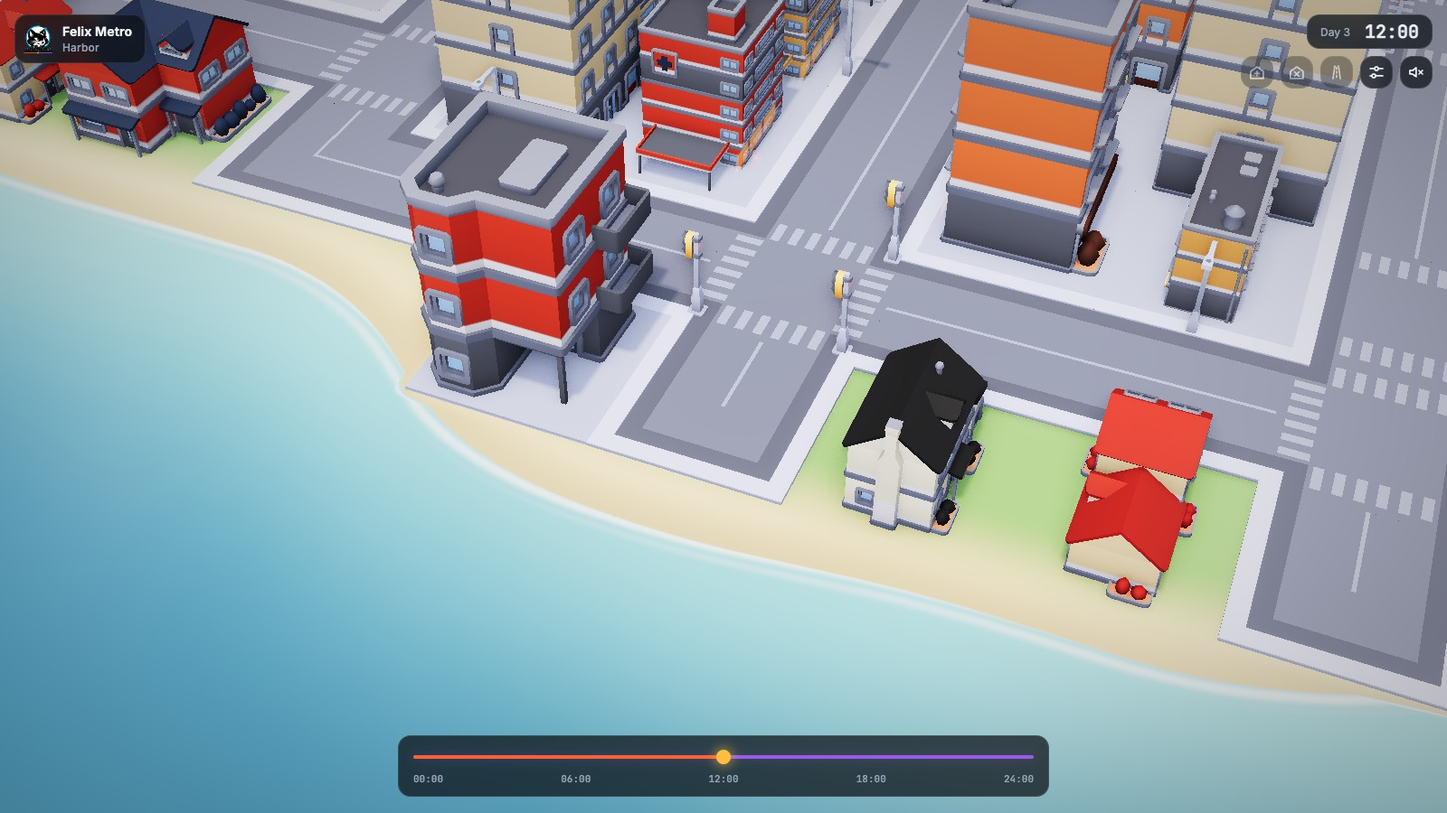
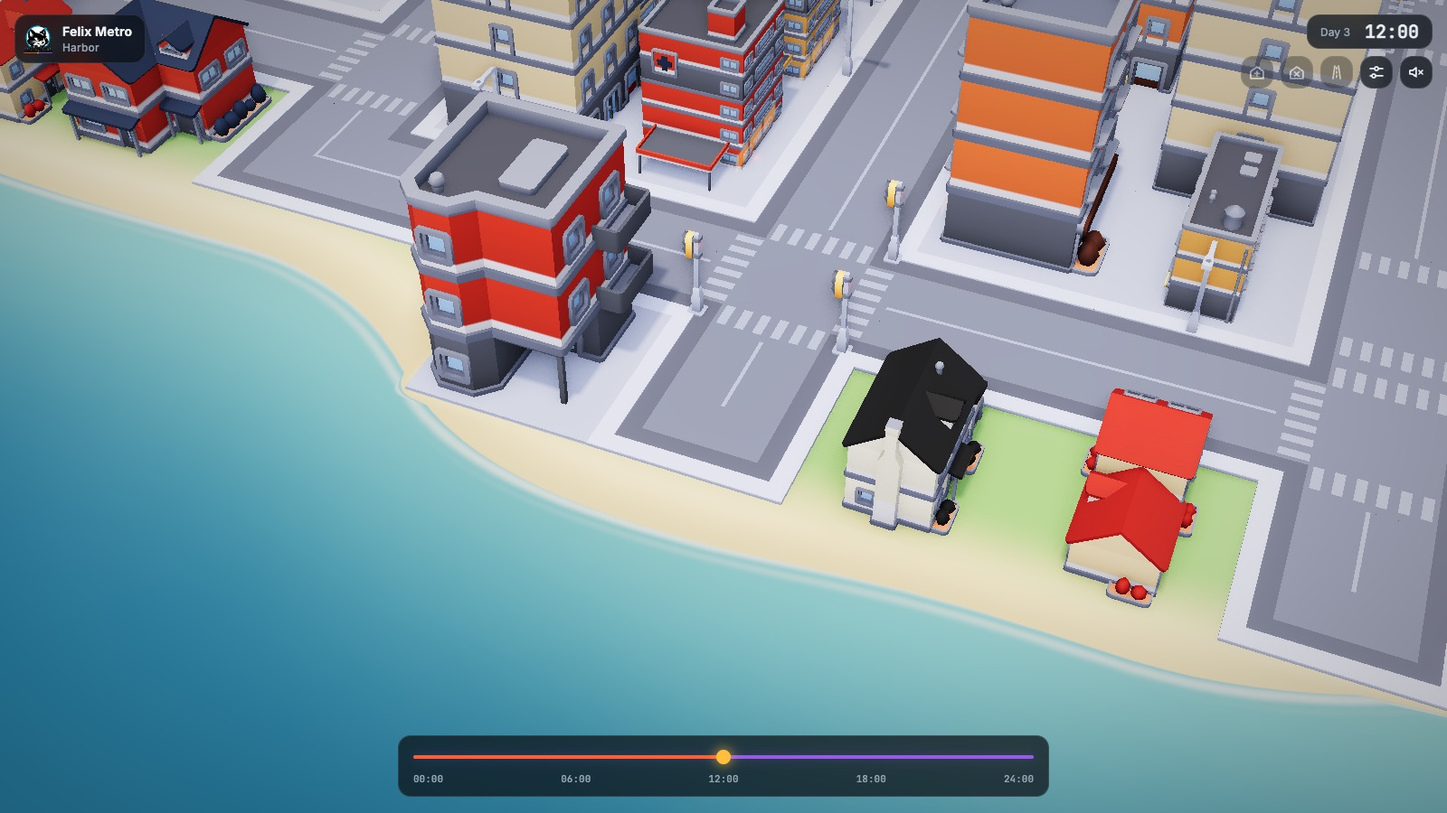
Water: give the sea the environment map at a tenth of its strength, and say plainly why it never covers land

diff --git a/web/src/coast.ts b/web/src/coast.ts
@@ -1,9 +1,9 @@
 // The coast: where the drawn water meets the land, and the one test every piece of scatter asks.
 //
 // The sim knows water as whole tiles, and that stays the rule for lots and roads. The page draws a smoother edge by
-// blurring the tile mask and cutting it at a level that wanders with a noise seeded from the city's seed. The cut is
-// above the blur's value at a tile edge, so the drawn water only ever pulls back into water tiles and never covers a
-// land one. What it uncovers is the beach. `dry` is the same field read the other way: a tree goes where it is
+// blurring the tile mask and cutting it at a level that wanders with a noise seeded from the city's seed. Land texels
+// are forced dry and the mesh only covers water tiles, so the drawn water never reaches a land tile. What it
+// uncovers is the beach. `dry` is the same field read the other way: a tree goes where it is
 // clear of the beach, on land, and nowhere else.
 import * as THREE from 'three';
 import { roll, seedNumber } from './ambient';
@@ -11,7 +11,7 @@ import type { City } from './layout';
 
 /** Tiles of map drawn past each edge, so the coast reads right out to where the camera can see. */
 export const COAST_PADDING = 10;
-/** The blurred mask is 0.5 at a tile edge. The water is drawn where it passes this, which pulls it back into the tile. */
+/** The blurred mask is 0.5 along a straight tile edge. Water is drawn where it passes this, which pulls it back into the tile. */
 const LEVEL = 0.72;
 /** A channel or inlet a tile or two wide would blur away at that level, so the level drops by up to this much there. */
 const THIN = 0.25;
@@ -19,8 +19,9 @@ const THIN = 0.25;
 const WANDER = 0.12;
 /** Land clears the shore where the blurred mask is below this: about half a tile from the water's tile edge. */
 const DRY_BELOW = 0.14;
-/** The field the shaders read is 0.5 at the drawn edge and runs 1 per `1 / FIELD_SLOPE` of the mask. */
+/** The shaders read a field that is 0.5 at the drawn edge; this is how fast it changes with the blurred mask. */
 const FIELD_SLOPE = 2.5;
+/** Land texels get this field value, which is dry. It is what keeps the water off land tiles. */
 const FIELD_LAND_CAP = 0;
 
 export interface Coast {
@@ -105,7 +106,7 @@ export function buildCoast(city: City): Coast {
   const tiles = city.tiles;
   const half = (tiles - 1) / 2;
   const across = tiles + 2 * COAST_PADDING;
-  // A 16 district city would be too many texels at full detail.
+  // Fewer texels per tile once the map is very large, to keep the texture small.
   const per = Math.max(4, Math.min(8, Math.floor(1536 / across)));
   const size = across * per;
   const origin = -half - 0.5 - COAST_PADDING;

diff --git a/web/src/coast.test.ts b/web/src/coast.test.ts
@@ -74,6 +74,22 @@ describe('the coast', () => {
     }
   });
 
+  it('leaves every land texel dry in the texture the shaders read', () => {
+    for (const seed of SEEDS) {
+      const c = city(seed);
+      const coast = buildCoast(c);
+      const wet = new Set(c.water.map(([x, z]) => z * c.tiles + x));
+      const per = coast.size / coast.extent;
+      for (let j = 0; j < coast.size; j++) {
+        for (let i = 0; i < coast.size; i++) {
+          const [x, z] = [coast.origin + (i + 0.5) / per, coast.origin + (j + 0.5) / per];
+          if (!simWater(c, wet, x, z))
+            expect(coast.data[(j * coast.size + i) * 4]!, `${seed} ${x}, ${z}`).toBeLessThan(128);
+        }
+      }
+    }
+  });
+
   it('is not squared off: the edge pulls back into the water by a different amount along the coast', () => {
     const c = city('harbor');
     const coast = buildCoast(c);

diff --git a/web/src/water.ts b/web/src/water.ts
@@ -87,7 +87,8 @@ export function createWater(city: City, coast: Coast, reach: number): Water {
     uDeep: { value: new THREE.Color(PALETTE.deep) },
     uFoam: { value: new THREE.Color(PALETTE.foam) },
   };
-  // Mostly diffuse: a rough, non-metal surface with little of the environment, so it reads as water and not a mirror.
+  // Mostly diffuse: a rough, non-metal surface with little of the environment (scene.ts gives it the map, so the
+  // intensity below applies), so it reads as water and not a mirror.
   const material = new THREE.MeshStandardMaterial({
     color: PALETTE.water,
     roughness: 0.42,

diff --git a/web/src/scene.ts b/web/src/scene.ts
@@ -423,6 +423,7 @@ export async function createCity(
     // Water: one mesh of the water tiles and the open sea past the map edge it lies along, cut to the coast.
     if (c.water.length && coast) {
       water = createWater(c, coast, 60 * span);
+      (water.mesh.material as THREE.MeshStandardMaterial).envMap = scene.environment;
       water.setDetail(waterTier !== 'low');
       scene.add(water.mesh);
     }

diff --git a/docs/art.md b/docs/art.md
@@ -4,8 +4,8 @@ Felix Metro is a model city on a table: low-poly, saturated, seen from above
 through a tilt-shift lens, with the time of day doing most of the mood. The
 reference is [prototype/style-frame.html](../prototype/style-frame.html).
 
-| Noon | Golden hour | Night |
-|---|---|---|
+| Noon                                         | Golden hour                                                 | Night                                           |
+| -------------------------------------------- | ----------------------------------------------------------- | ----------------------------------------------- |
 | ![Noon](screenshots/style-frame-day.jpg?v=2) | ![Golden hour](screenshots/style-frame-golden-hour.jpg?v=2) | ![Night](screenshots/style-frame-night.jpg?v=2) |
 
 ## Assets
@@ -13,14 +13,14 @@ reference is [prototype/style-frame.html](../prototype/style-frame.html).
 Six Kenney packs, all CC0 and one family. They share Kenney's gradient-swatch
 palette and proportions, so they sit together without restyling by hand.
 
-| Pack | Used for | Notes |
-|---|---|---|
-| City Kit (Roads) | Roads, crossings, pavement lots, street lights, traffic lights | Tiles are 1 × 1 units; the grid is built on them. `road-straight` runs along X |
-| City Kit (Commercial) | Downtown and commercial lots, towers | 14 buildings, 5 towers, awnings and parasols |
-| City Kit (Suburban) | Houses, trees, fences, driveways | Also the source of every tree |
-| City Kit (Industrial) | Factories, tanks, chimneys, containers, water tower | |
-| Car Kit | Traffic | Sedan, taxi, SUV, van, delivery, police, ambulance, trucks; scaled to 0.12 |
-| Mini Characters | Pedestrians | Rigged, with `walk`, `idle`, `sit` and more; scaled to 0.17 in the style frame and 0.22 in a city |
+| Pack                  | Used for                                                       | Notes                                                                                             |
+| --------------------- | -------------------------------------------------------------- | ------------------------------------------------------------------------------------------------- |
+| City Kit (Roads)      | Roads, crossings, pavement lots, street lights, traffic lights | Tiles are 1 × 1 units; the grid is built on them. `road-straight` runs along X                    |
+| City Kit (Commercial) | Downtown and commercial lots, towers                           | 14 buildings, 5 towers, awnings and parasols                                                      |
+| City Kit (Suburban)   | Houses, trees, fences, driveways                               | Also the source of every tree                                                                     |
+| City Kit (Industrial) | Factories, tanks, chimneys, containers, water tower            |                                                                                                   |
+| Car Kit               | Traffic                                                        | Sedan, taxi, SUV, van, delivery, police, ambulance, trucks; scaled to 0.12                        |
+| Mini Characters       | Pedestrians                                                    | Rigged, with `walk`, `idle`, `sit` and more; scaled to 0.17 in the style frame and 0.22 in a city |
 
 Considered and left out:
 
@@ -49,14 +49,14 @@ Construction has no models of its own; see [Construction](#construction).
 Serve the repository root (`python3 -m http.server`) and open
 `/prototype/style-frame.html`. Parameters:
 
-| Parameter | Effect |
-|---|---|
-| `?t=17.8` | Freeze the clock at that hour |
-| `?still` | Freeze cars and people, for screenshots |
-| `?tier=low\|medium\|high` | Force a quality tier and turn off the automatic choice |
-| `?hud` | Frame-time overlay under the brand chip |
-| `?ui=0` | Hide the overlay |
-| `?capture&trace` | Draw only when `window.__capture.frame(tMs)` is called, with the camera and tick following a path the clip script sets (`web/scripts/clip.mjs`) |
+| Parameter                 | Effect                                                                                                                                          |
+| ------------------------- | ----------------------------------------------------------------------------------------------------------------------------------------------- |
+| `?t=17.8`                 | Freeze the clock at that hour                                                                                                                   |
+| `?still`                  | Freeze cars and people, for screenshots                                                                                                         |
+| `?tier=low\|medium\|high` | Force a quality tier and turn off the automatic choice                                                                                          |
+| `?hud`                    | Frame-time overlay under the brand chip                                                                                                         |
+| `?ui=0`                   | Hide the overlay                                                                                                                                |
+| `?capture&trace`          | Draw only when `window.__capture.frame(tMs)` is called, with the camera and tick following a path the clip script sets (`web/scripts/clip.mjs`) |
 
 The app (`web/`) draws the city generated from the seed in the URL hash (`/#harbor`), 2 × 2 districts by default (`?districts=3`). `?layout=frame` draws the style frame's hand-made map instead, which is what CI compares against the frame. `?live=0` skips the gateway and draws the city with no traffic, and `?gateway=ws://host:8787/ws` names a gateway other than the page's own. `?at=<tick>` opens the city at a past tick, `?cam=x,z,distance,azimuth,polar` starts the camera at a saved view (the two make up the link that Share this moment copies) and `?attract=<seconds>` sets how long the page waits before the camera turns on its own (`0` for never).
 
@@ -67,21 +67,21 @@ The screenshots above are `?t=12&still`, `?t=17.8&still` and `?t=21&still` at
 
 You move around the city by moving the point the camera looks at, standing nearer or farther from it, or walking the camera round it. These controls work in the app, on a generated city and on the frame layout (`?layout=frame`, the style frame's hand-made map instead of a generated city). The style frame page itself (`prototype/style-frame.html`) still uses plain orbit controls.
 
-| Input | What it does |
-|---|---|
-| Mouse: drag with the left button | Turn and tilt the view around the point it looks at |
-| Mouse: drag with the right button, or hold Shift and drag | Slide the view across the city |
-| Mouse wheel | Zoom toward the point under the pointer |
-| Trackpad: click and drag | Turn and tilt, as with a mouse |
-| Trackpad: hold Shift and drag | Slide the view (a trackpad has no right button) |
-| Trackpad: pinch or two-finger scroll | Zoom toward the point under the pointer. Ctrl and wheel over the canvas zooms the city, not the page |
-| Touch: drag with one finger | Turn and tilt |
-| Touch: drag with two fingers | Slide the view |
-| Touch: pinch | Zoom toward the point between the fingers |
-| Keyboard: `W` `A` `S` `D` | Slide the view forward, left, back and right (hold to keep going) |
-| Keyboard: `Q` `E` | Turn the view left and right |
-| Keyboard: `+` `-` | Zoom in and out |
-| Keyboard: `0` | Return to the city's opening view (where the drift from above settles) |
+| Input                                                     | What it does                                                                                         |
+| --------------------------------------------------------- | ---------------------------------------------------------------------------------------------------- |
+| Mouse: drag with the left button                          | Turn and tilt the view around the point it looks at                                                  |
+| Mouse: drag with the right button, or hold Shift and drag | Slide the view across the city                                                                       |
+| Mouse wheel                                               | Zoom toward the point under the pointer                                                              |
+| Trackpad: click and drag                                  | Turn and tilt, as with a mouse                                                                       |
+| Trackpad: hold Shift and drag                             | Slide the view (a trackpad has no right button)                                                      |
+| Trackpad: pinch or two-finger scroll                      | Zoom toward the point under the pointer. Ctrl and wheel over the canvas zooms the city, not the page |
+| Touch: drag with one finger                               | Turn and tilt                                                                                        |
+| Touch: drag with two fingers                              | Slide the view                                                                                       |
+| Touch: pinch                                              | Zoom toward the point between the fingers                                                            |
+| Keyboard: `W` `A` `S` `D`                                 | Slide the view forward, left, back and right (hold to keep going)                                    |
+| Keyboard: `Q` `E`                                         | Turn the view left and right                                                                         |
+| Keyboard: `+` `-`                                         | Zoom in and out                                                                                      |
+| Keyboard: `0`                                             | Return to the city's opening view (where the drift from above settles)                               |
 
 The keys are ignored while you type in a text field or hold Ctrl, Cmd or Alt, so browser shortcuts still work. The arrow keys step the timeline and Space plays, so the camera leaves them alone. The table of keys is data (`CAMERA_KEYS` in `web/src/camera-keys.ts`), and the key list in the UI builds its View and Mouse and touch groups from it and from `CAMERA_GESTURES`.
 
@@ -155,14 +155,14 @@ is open, stacks that smoke while a factory works, birds on the roofs at dawn, tr
 truck on its morning round and delivery vans on the shopping streets. The page draws all of it from the tick on screen
 and the city's seed, and nothing else.
 
-| What | When | How it is drawn | Low tier |
-|---|---|---|---|
-| Shop windows | A strip of glass on the street side of every shop lights between its opening (07:30 to 09:30) and its closing (18:00 to 22:00), each shop at its own hour. Pale by day, a warm glow at night | One instanced quad each | Drawn |
-| Chimney smoke | Each factory starts smoking between 05:30 and 07:00 and stops between 16:30 and 18:30, at hours fixed by its lot. Puffs rise from the model's stack and thin out as they go | Instanced soft sprites, 5 puffs a stack on high, 3 on medium | Left out |
-| Birds | A flock lands on some roofs (3 in 10) between 05:00 and 06:00 and flies off between 07:00 and 08:30; each flight takes about seven minutes | Instanced sprites, 3 a roof on high, 2 on medium | Left out |
-| Traffic lights | A post on each corner of every crossroads. One road has 13 ticks of green and 2 of amber, then the other has its turn | The model's post, instanced, with a lit lens: green, amber or red | Left out |
-| Garbage truck | Sets off between 06:00 and 07:30 and stops at every fourth tile of a long round | The fleet draws it as car kind 7 | Left out |
-| Delivery vans | Six a day on high, three on medium, setting off from 08:00 to 13:00 on rounds of a few hours, keeping to streets with shops and stopping outside them | The fleet draws each as car kind 6, the delivery van | Left out |
+| What           | When                                                                                                                                                                                         | How it is drawn                                                   | Low tier |
+| -------------- | -------------------------------------------------------------------------------------------------------------------------------------------------------------------------------------------- | ----------------------------------------------------------------- | -------- |
+| Shop windows   | A strip of glass on the street side of every shop lights between its opening (07:30 to 09:30) and its closing (18:00 to 22:00), each shop at its own hour. Pale by day, a warm glow at night | One instanced quad each                                           | Drawn    |
+| Chimney smoke  | Each factory starts smoking between 05:30 and 07:00 and stops between 16:30 and 18:30, at hours fixed by its lot. Puffs rise from the model's stack and thin out as they go                  | Instanced soft sprites, 5 puffs a stack on high, 3 on medium      | Left out |
+| Birds          | A flock lands on some roofs (3 in 10) between 05:00 and 06:00 and flies off between 07:00 and 08:30; each flight takes about seven minutes                                                   | Instanced sprites, 3 a roof on high, 2 on medium                  | Left out |
+| Traffic lights | A post on each corner of every crossroads. One road has 13 ticks of green and 2 of amber, then the other has its turn                                                                        | The model's post, instanced, with a lit lens: green, amber or red | Left out |
+| Garbage truck  | Sets off between 06:00 and 07:30 and stops at every fourth tile of a long round                                                                                                              | The fleet draws it as car kind 7                                  | Left out |
+| Delivery vans  | Six a day on high, three on medium, setting off from 08:00 to 13:00 on rounds of a few hours, keeping to streets with shops and stopping outside them                                        | The fleet draws each as car kind 6, the delivery van              | Left out |
 
 **One rule: a function of the tick.** Every effect is worked out by `web/src/ambient.ts` from the tick, the seed of the
 city and an id (a lot, a crossing, a day). Nothing reads the wall clock or `Math.random`, and nothing is kept between
@@ -203,11 +203,11 @@ frame from a few hundred sites, and the posts are drawn once. The buffers are ma
 fills, and a mesh with nothing to draw costs no call. Draw calls and frame time on the medium tier, with and without the ambient life, on the same page
 and the same 160 cars and walkers:
 
-| Hour | Draw calls, without / with | Triangles, without / with | Page's submit ms | Frame ms on SwiftShader |
-|---|---|---|---|---|
-| 11:00 (smoke, vans, shops) | 4353 / 4360 | 2.87 M / 2.92 M | 5.7 / 6.1 | 335 / 355 |
-| 06:30 (birds, truck) | 4361 / 4368 | 2.87 M / 2.90 M | 5.8 / 6.0 | 353 / 362 |
-| 19:00 (shops, lights) | 4383 / 4389 | 2.87 M / 2.90 M | 6.0 / 6.0 | 389 / 401 |
+| Hour                       | Draw calls, without / with | Triangles, without / with | Page's submit ms | Frame ms on SwiftShader |
+| -------------------------- | -------------------------- | ------------------------- | ---------------- | ----------------------- |
+| 11:00 (smoke, vans, shops) | 4353 / 4360                | 2.87 M / 2.92 M           | 5.7 / 6.1        | 335 / 355               |
+| 06:30 (birds, truck)       | 4361 / 4368                | 2.87 M / 2.90 M           | 5.8 / 6.0        | 353 / 362               |
+| 19:00 (shops, lights)      | 4383 / 4389                | 2.87 M / 2.90 M           | 6.0 / 6.0        | 389 / 401               |
 
 The ambient life adds six or seven draw calls and 1% to 2% more triangles. The page's own work for it
 (`Ambient.update` and the fleet's round) takes about 0.04 ms a frame on the medium tier, and the page's submit time rose
@@ -316,20 +316,20 @@ and in WebGL calls, which is what draw calls cost on a real GPU. "Frame" waits f
 instancing does not speed up. It moved by as much as 50% between two runs of the same build with other jobs running, so
 the table gives the best of two runs.
 
-| Tier | Movers | Draw calls before | Draw calls after | Submit ms before | Submit ms after | Frame ms before | Frame ms after |
-|---|---|---|---|---|---|---|---|
-| high | 0 | 6,270 | 6,270 | 7.1 | 7.7 | 468 | 470 |
-| high | 100 | 8,049 | 6,489 | 11.1 | 8.8 | 526 | 525 |
-| high | 400 | 13,665 | 6,489 | 19.6 | 8.9 | 704 | 690 |
-| high | 800 | 20,862 | 6,489 | 32.3 | 8.9 | 982 | 912 |
-| medium | 0 | 4,240 | 4,240 | 5.4 | 6.0 | 267 | 264 |
-| medium | 80 | 5,214 | 4,395 | 7.2 | 6.2 | 296 | 297 |
-| medium | 160 | 6,180 | 4,395 | 8.9 | 5.8 | 328 | 330 |
-| medium | 400 | 9,170 | 4,395 | 13.6 | 5.7 | 428 | 412 |
-| low | 0 | 1,216 | 1,216 | 2.5 | 2.7 | 107 | 107 |
-| low | 40 | 1,449 | 1,273 | 3.0 | 2.7 | 112 | 113 |
-| low | 80 | 1,685 | 1,275 | 3.6 | 2.8 | 118 | 118 |
-| low | 400 | 3,571 | 1,275 | 6.8 | 2.7 | 167 | 161 |
+| Tier   | Movers | Draw calls before | Draw calls after | Submit ms before | Submit ms after | Frame ms before | Frame ms after |
+| ------ | ------ | ----------------- | ---------------- | ---------------- | --------------- | --------------- | -------------- |
+| high   | 0      | 6,270             | 6,270            | 7.1              | 7.7             | 468             | 470            |
+| high   | 100    | 8,049             | 6,489            | 11.1             | 8.8             | 526             | 525            |
+| high   | 400    | 13,665            | 6,489            | 19.6             | 8.9             | 704             | 690            |
+| high   | 800    | 20,862            | 6,489            | 32.3             | 8.9             | 982             | 912            |
+| medium | 0      | 4,240             | 4,240            | 5.4              | 6.0             | 267             | 264            |
+| medium | 80     | 5,214             | 4,395            | 7.2              | 6.2             | 296             | 297            |
+| medium | 160    | 6,180             | 4,395            | 8.9              | 5.8             | 328             | 330            |
+| medium | 400    | 9,170             | 4,395            | 13.6             | 5.7             | 428             | 412            |
+| low    | 0      | 1,216             | 1,216            | 2.5              | 2.7             | 107             | 107            |
+| low    | 40     | 1,449             | 1,273            | 3.0              | 2.7             | 112             | 113            |
+| low    | 80     | 1,685             | 1,275            | 3.6              | 2.8             | 118             | 118            |
+| low    | 400    | 3,571             | 1,275            | 6.8              | 2.7             | 167             | 161            |
 
 The 0 rows are the city alone: its buildings, roads and trees are still one object each. Before, every mover added about
 18 draw calls. Now the first movers add a fixed 219 on high, 155 on medium and 59 on low (a mesh for each part of each
@@ -348,16 +348,16 @@ A city with a shore has the sea along one edge of the map, and the water has to 
 that is lighter in the shallows and darker offshore, a faint ripple, a pale sheen at a low angle and a thin line of foam
 where it meets the beach. It does not mirror the sky.
 
-| Piece | What it does |
-|---|---|
-| Colour by depth | `PALETTE.shallow` at the shore, `PALETTE.deep` far out, around the style frame's `PALETTE.water` |
-| Ripples | A few slow waves tilt the surface normal a little, so the sun breaks up into a soft glitter instead of one hot spot |
-| Sheen | The sky's colour is added at a grazing angle only (a Fresnel term), so water looks brighter toward the horizon and plain overhead |
-| Foam | A line of white where the sea meets the sand, drifting in and out |
+| Piece           | What it does                                                                                                                                            |
+| --------------- | ------------------------------------------------------------------------------------------------------------------------------------------------------- |
+| Colour by depth | `PALETTE.shallow` at the shore, `PALETTE.deep` far out, around the style frame's `PALETTE.water`                                                        |
+| Ripples         | A few slow waves tilt the surface normal a little, so the sun breaks up into a soft glitter instead of one hot spot                                     |
+| Sheen           | The sky's colour is added at a grazing angle only (a Fresnel term), so the water is brighter toward the horizon and plain when seen from straight above |
+| Foam            | A line of white where the sea meets the sand, drifting in and out                                                                                       |
 
 The water is one mesh in one draw call. It is a standard material, so it takes the sun, shadows and fog like the rest of
-the scene, with the environment map turned almost off (that map was the mirror: it put a bright blob of the room on the
-sea). There are no screen-space reflections. The ripples, sheen, foam and depth colour are for the medium and high tiers.
+the scene, with the scene's environment map at a tenth of its strength (at full strength it was the mirror: a bright blob of
+the room on the sea). There are no screen-space reflections. The ripples, sheen, foam and depth colour are for the medium and high tiers.
 Low draws the flat `PALETTE.water` with the same coast.
 
 ### The coast
@@ -367,26 +367,28 @@ tile. Drawn as tiles, the shore is a staircase, so the page draws a smoother edg
 (`web/src/coast.ts`):
 
 1. The water tiles, and the sea past the edge of the map, become a mask: 1 for water, 0 for land.
-2. The mask is blurred, which rounds every corner. A tile edge sits at 0.5 on the blurred mask.
+2. The mask is blurred, which rounds every corner. Along a straight tile edge the blurred mask is 0.5.
 3. The water is drawn where the blurred mask is above 0.72, moved up and down a little by noise seeded from the city's
-   seed. The cut is well above 0.5, so the drawn water only pulls back into water tiles. It never covers a land tile, so a road
-   or a lot never ends up under water.
+   seed. Along a straight edge that is well inside the water tile, so the edge pulls back. Narrow inlets get a lower cut
+   so they do not vanish.
+   Land tiles are forced dry, and the water mesh only has quads on water tiles, so the drawn water never covers a land tile
+   and a road or a lot never ends up under it.
 4. The strip of tile the water gave up is beach. The ground turns to sand there, darker where the waves wet it.
 
-The result is baked once into a small texture (eight texels to a tile for a 2 by 2 city) that the water and the ground
+The result is baked once into a small texture (8 texels to a tile, fewer on a very large map) that the water and the ground
 both read, so the edge is as sharp as the screen allows and costs nothing per frame. The same seed gives the same coast
 on every machine; the noise is a hash of the city seed and the position, not a random number.
 
 ### Trees and other scatter
 
-Everything that is placed by hand on the page and not by a lot goes through one test, `Coast.dry(x, z)`: land, and clear
-of the beach (about half a tile back from where the water's tile edge was). That covers the trees past the map, and
-the trees a house or a park puts on its lot, since a lot next to the water can have a tree that jitters to its edge. A
-point that fails is left out; the city draws a few fewer trees on the shore. The sim chooses lots and what stands on them, tile by tile, and has no
-position inside a tile, so it cannot disagree with the page: a tile it calls land is land, and the page only ever
-removes water from tiles the sim called water. `web/src/coast.test.ts` checks this for cities on all four edges and a dry
-one: nothing is drawn as water on a land tile, and no point that passes `dry` is on a water tile or within a quarter of a
-tile of one.
+Trees that the page places itself, the landscape past the map and the trees on house and park lots, must pass one test,
+`Coast.dry(x, z)`: land, and off the beach (between a quarter and half a tile back from the water's tile edge). A tree
+that fails is dropped, so a lot at the water has fewer trees and a waterfront park can have none.
+
+The sim picks lots and what stands on them tile by tile and has no position inside a tile, so it cannot disagree with the
+page: a tile it calls land is land, and the page only ever removes water from tiles the sim called water.
+`web/src/coast.test.ts` checks this for cities on all four edges and a dry one. Nothing is drawn as water on a land tile,
+and no point that passes `dry` is on a water tile or within a quarter of a tile of one.
 
 ![A shore at noon](screenshots/coast-day.jpg)
 
@@ -399,11 +401,11 @@ The pictures are `?tier=high&t=12&still&live=0&cam=0,9,8,0.4,0.8#harbor` and the
 Each tier drops effects in the order that costs the least in looks, so the
 picture degrades before the frame rate does.
 
-| Tier | Ambient occlusion | Tilt-shift | Shadows | Pixel ratio | Cars and walkers at once | Pedestrian rigs\* | Water |
-|---|---|---|---|---|---|---|---|
-| high | yes | yes | 4096 map | up to 2 | no limit | yes | ripples, sheen, foam, depth colour |
-| medium | no | yes | 2048 map | up to 2 | 160 | no | ripples, sheen, foam, depth colour |
-| low | no | no | no | 1 | 80 | no | flat colour |
+| Tier   | Ambient occlusion | Tilt-shift | Shadows  | Pixel ratio | Cars and walkers at once | Pedestrian rigs\* | Water                              |
+| ------ | ----------------- | ---------- | -------- | ----------- | ------------------------ | ----------------- | ---------------------------------- |
+| high   | yes               | yes        | 4096 map | up to 2     | no limit                 | yes               | ripples, sheen, foam, depth colour |
+| medium | no                | yes        | 2048 map | up to 2     | 160                      | no                | ripples, sheen, foam, depth colour |
+| low    | no                | no         | no       | 1           | 80                       | no                | flat colour                        |
 
 \* The `rigs` flag is set only on high. Rigged pedestrians arrive with #6; until then nothing reads it.
 
